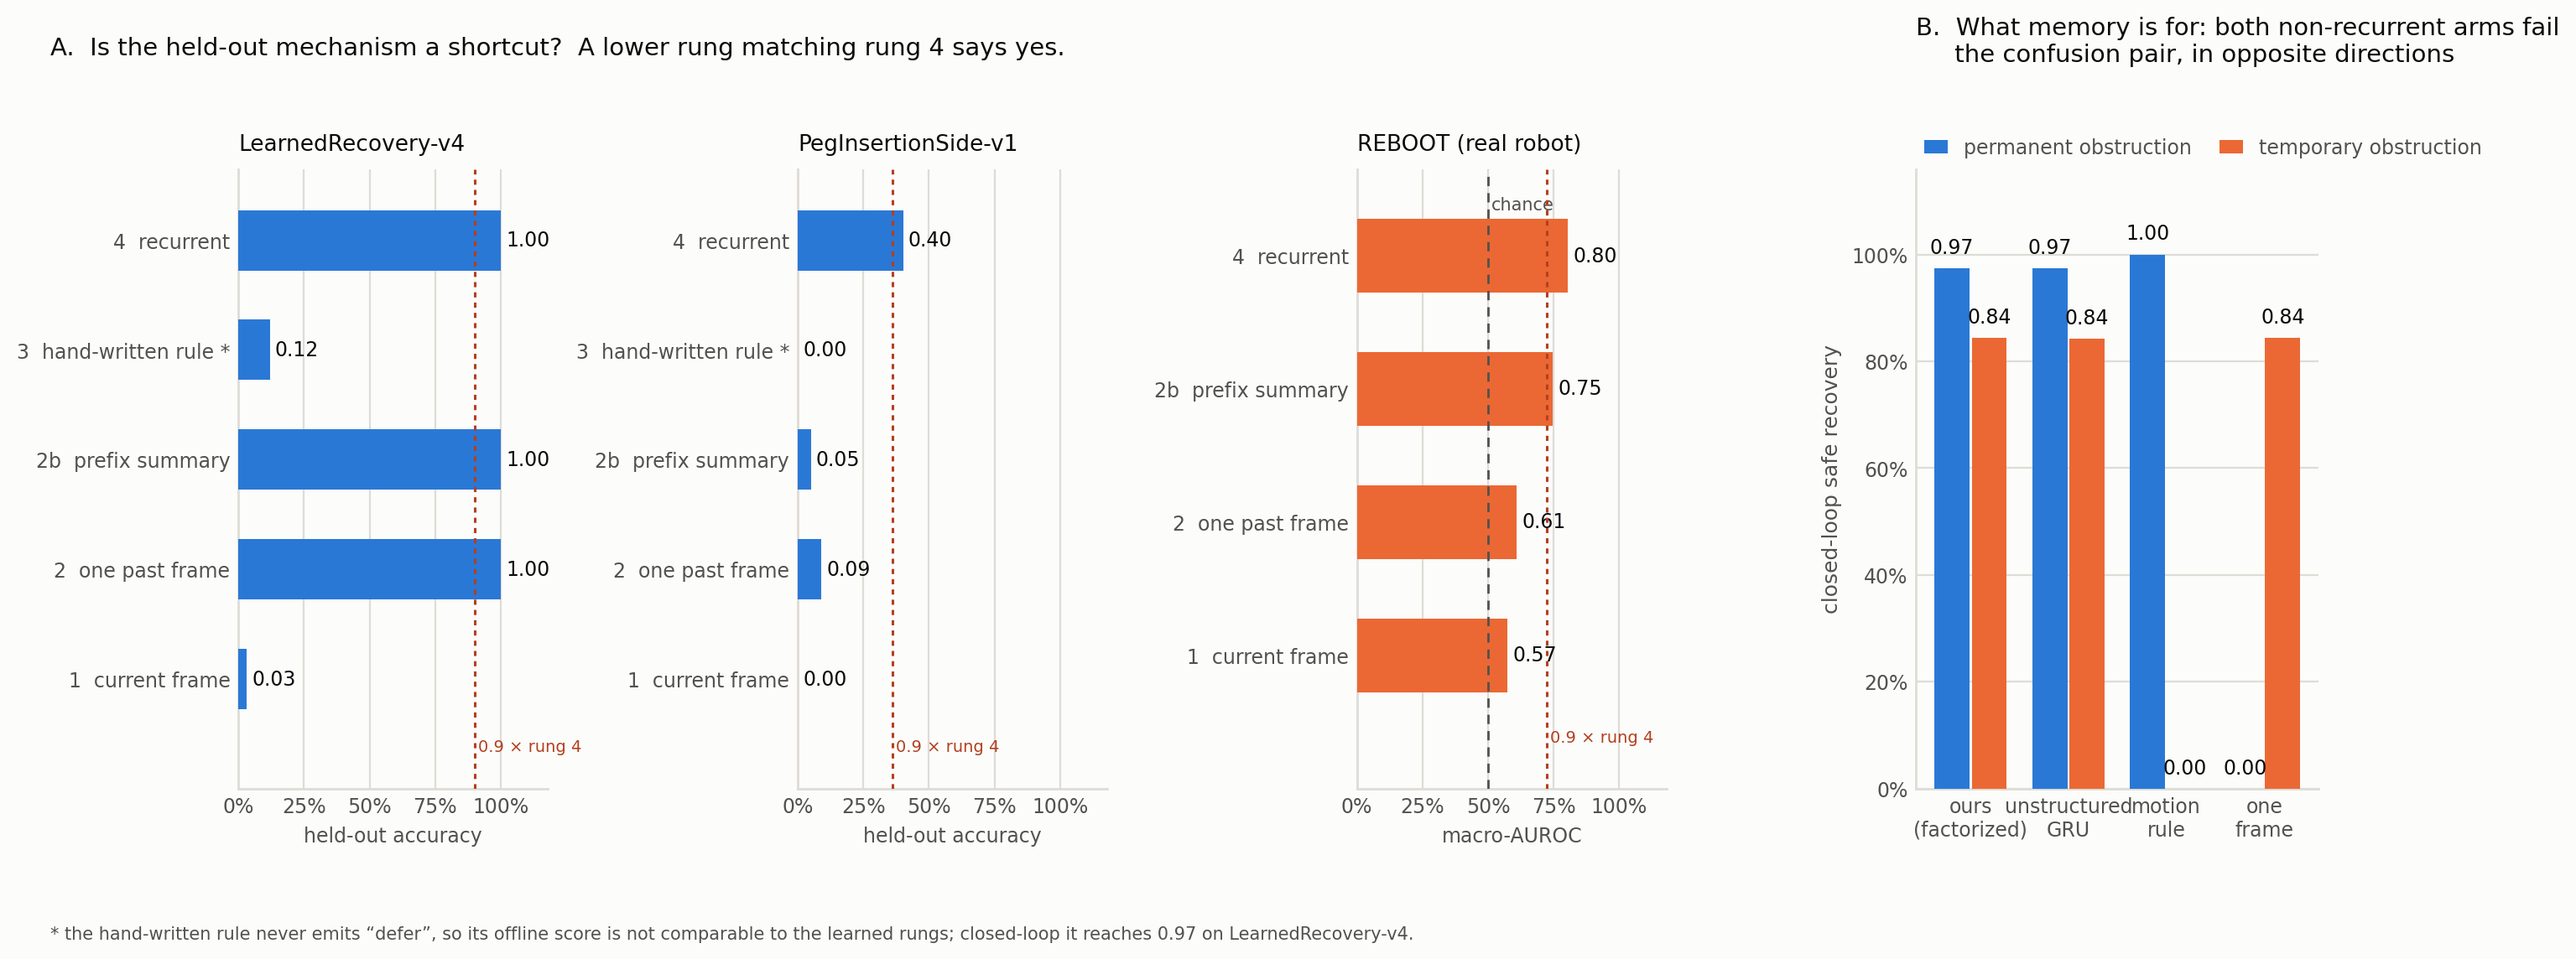
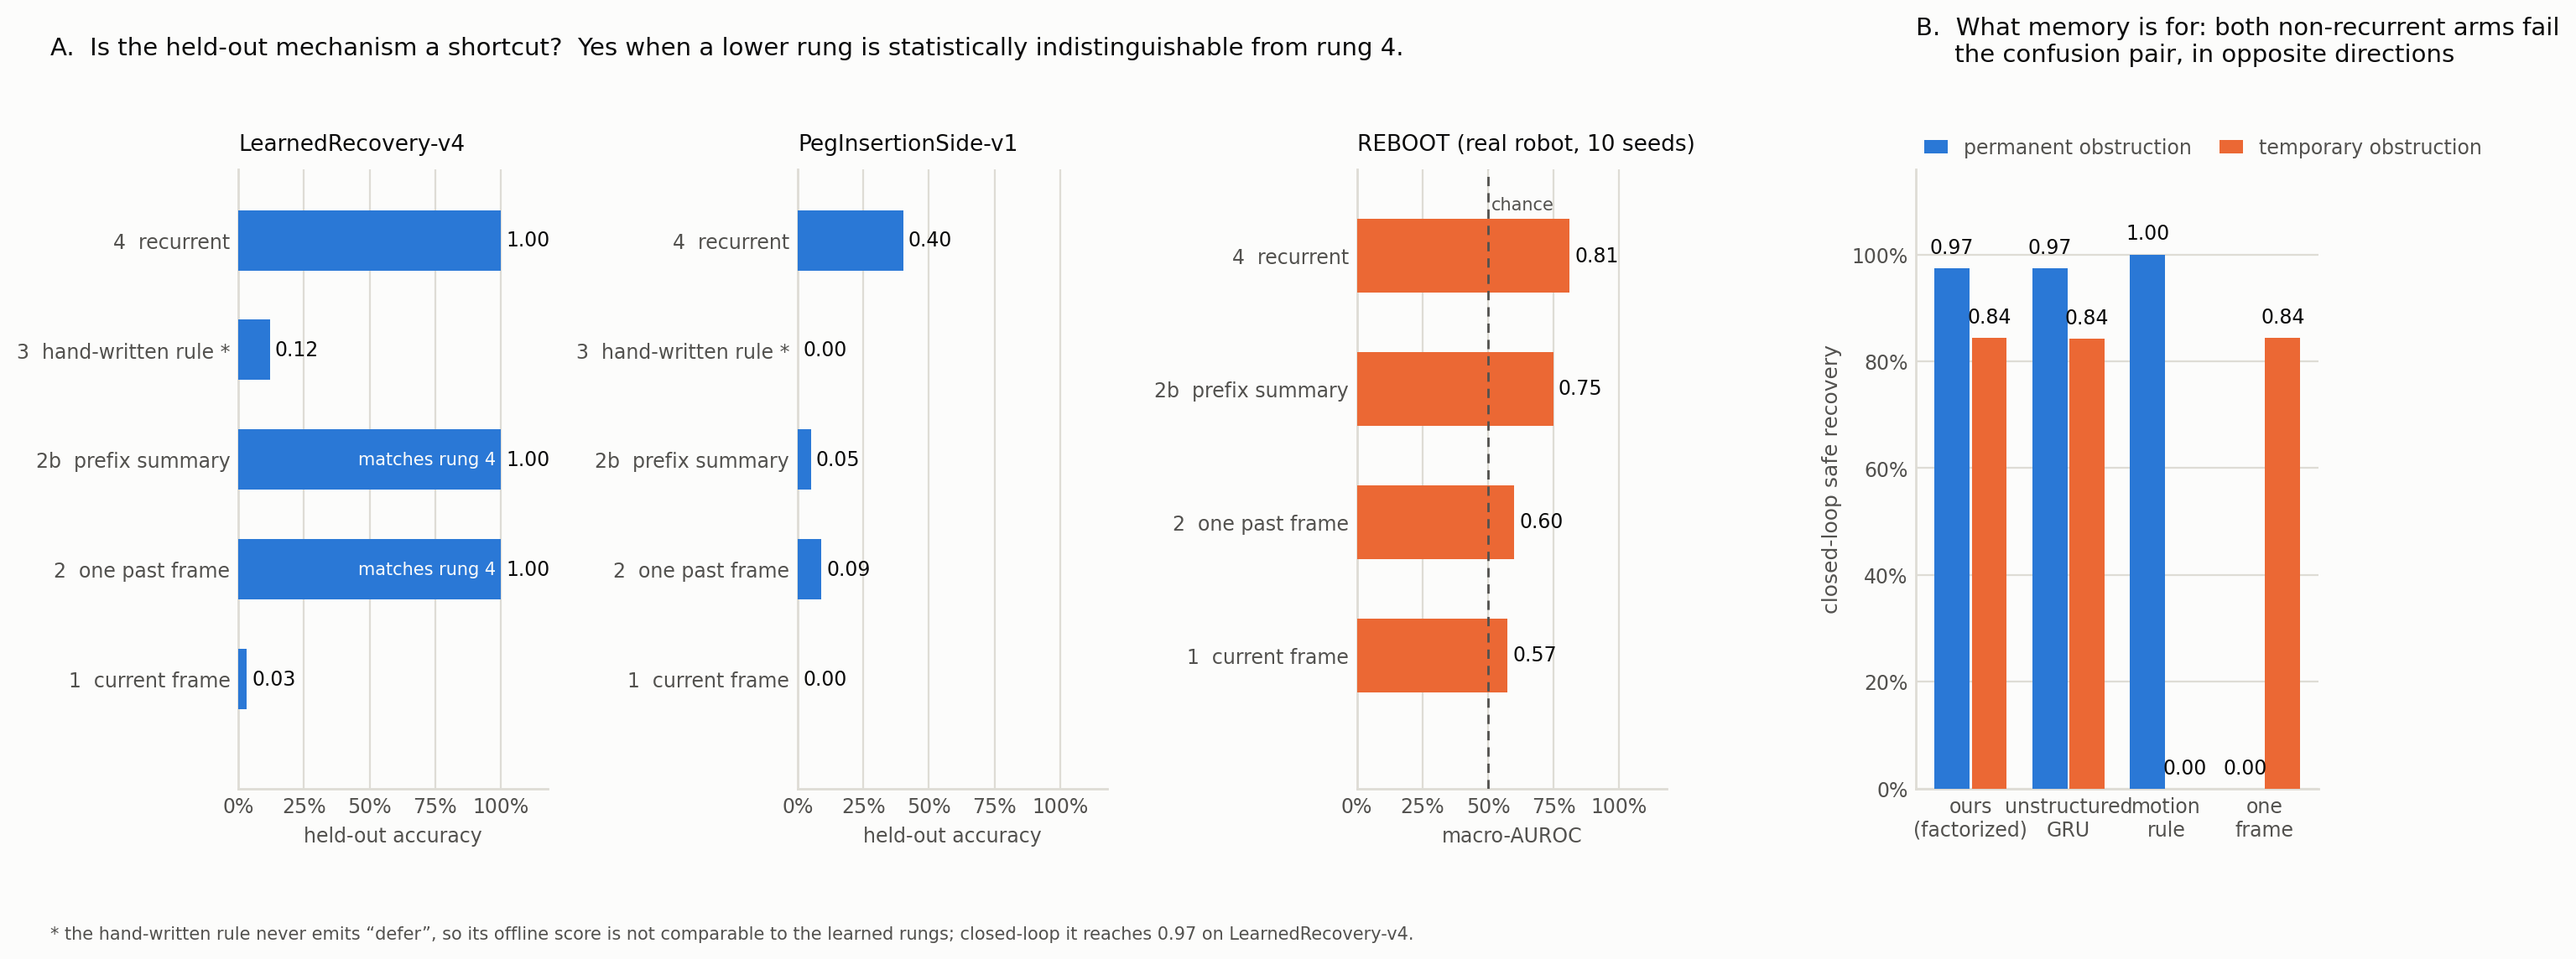
Redraw the figure against the criterion it now reports
The figure still drew the 0.9 x rung-4 line after that ratio cut had been
replaced by a paired bootstrap, so it contradicted the text: REBOOT's
order-free control crosses that line while the test finds it distinguishable
from rung 4. It also read the three-seed REBOOT aggregate.

Panels now read the ten-seed aggregate and mark only the rungs the paired test
cannot distinguish from rung 4, which on this evidence is the two non-recurrent
controls on LearnedRecovery-v4 and nothing on the other two benchmarks.

diff --git a/scripts/plot_shortcut_ladder.py b/scripts/plot_shortcut_ladder.py
@@ -39,11 +39,14 @@ RUNGS = [
 
 def load_ladder(path: Path) -> dict[str, float]:
     report = json.loads(path.read_text())
-    return {
+    values = {
         key: entry["heldout_option_accuracy_mean"]
         for key, entry in report["rungs"].items()
         if entry["heldout_option_accuracy_mean"] is not None
     }
+    # Rungs the paired test cannot distinguish from rung 4 are the verdict.
+    values["_matching"] = tuple(report.get("verdict", {}).get("matching_lower_rungs", ()))
+    return values
 
 
 def panel_a(axes, v4, peg, reboot):
@@ -56,27 +59,26 @@ def panel_a(axes, v4, peg, reboot):
     panels = [
         ("LearnedRecovery-v4", v4, "held-out accuracy", None, SERIES_1),
         ("PegInsertionSide-v1", peg, "held-out accuracy", None, SERIES_1),
-        ("REBOOT (real robot)", reboot, "macro-AUROC", 0.5, SERIES_2),
+        ("REBOOT (real robot, 10 seeds)", reboot, "macro-AUROC", 0.5, SERIES_2),
     ]
     for ax, (title, values, xlabel, chance, colour) in zip(axes, panels):
-        rows = [(lab, values.get(key)) for key, lab in RUNGS if key in values]
+        matching = values.get("_matching", ())
+        rows = [(key, lab, values.get(key)) for key, lab in RUNGS if key in values]
+        rows = [(k, l, v) for k, l, v in rows if v is not None]
         y = range(len(rows))
-        ax.barh(list(y), [v for _, v in rows], height=0.55, color=colour, zorder=3)
-        for i, (_, v) in enumerate(rows):
+        ax.barh(list(y), [v for _, _, v in rows], height=0.55, color=colour, zorder=3)
+        for i, (key, _, v) in enumerate(rows):
             ax.text(v + 0.02, i, f"{v:.2f}", va="center", ha="left",
                     fontsize=8.5, color=INK)
-        top = values.get("recurrent_factorized")
-        if top:
-            line = 0.9 * top
-            ax.axvline(line, color="#b3401f", lw=1.1, ls=(0, (2, 2)), zorder=4)
-            ax.text(line + 0.012, -0.62, "0.9 \u00d7 rung 4", fontsize=7,
-                    color="#b3401f", va="center", ha="left")
+            if key in matching:
+                ax.text(v - 0.02, i, "matches rung 4", va="center", ha="right",
+                        fontsize=7.5, color=SURFACE, zorder=5)
         if chance is not None:
             ax.axvline(chance, color=INK_MUTED, lw=1.0, ls=(0, (4, 3)), zorder=4)
             ax.text(chance + 0.012, len(rows) - 0.62, "chance", fontsize=7.5,
                     color=INK_MUTED, va="center", ha="left")
         ax.set_yticks(list(y))
-        ax.set_yticklabels([lab for lab, _ in rows], fontsize=8.5, color=INK)
+        ax.set_yticklabels([lab for _, lab, _ in rows], fontsize=8.5, color=INK)
         ax.set_ylim(-1.0, len(rows) - 0.35)
         ax.set_xlim(0, 1.18)
         ax.xaxis.set_major_formatter(PercentFormatter(xmax=1))
@@ -155,7 +157,7 @@ def main() -> None:
          cell("static_offset", "temporary_block")),
     ]
 
-    reboot_path = args.ladder_dir.parent.parent / "a_plus_audit" / "reboot_ladder_v4_aggregate.json"
+    reboot_path = args.ladder_dir.parent.parent / "a_plus_audit" / "reboot_ladder_v5_aggregate.json"
     reboot = {}
     if reboot_path.exists():
         agg = json.loads(reboot_path.read_text())["aggregate"]
@@ -165,6 +167,16 @@ def main() -> None:
             "moment_summary": agg["moment_mlp"]["macro_auroc_mean"],
             "recurrent_factorized": agg["causal_dynamics_gru"]["macro_auroc_mean"],
         }
+        comparisons = json.loads(reboot_path.read_text()).get("comparisons", {})
+        name_by_key = {
+            "instantaneous": "causal_vs_static_mlp",
+            "one_past_frame": "causal_vs_endpoint_pair_mlp",
+            "moment_summary": "causal_vs_moment_mlp",
+        }
+        reboot["_matching"] = tuple(
+            key for key, comparison in name_by_key.items()
+            if comparisons.get(comparison, {}).get("indistinguishable_from_recurrent")
+        )
 
     fig = plt.figure(figsize=(16.0, 4.8), facecolor=SURFACE)
     grid = fig.add_gridspec(1, 4, width_ratios=[1, 1, 1, 1.3], wspace=0.75)
@@ -181,7 +193,8 @@ def main() -> None:
         handlelength=1.2, ncol=2, columnspacing=1.4,
     )
     fig.suptitle(
-        "A.  Is the held-out mechanism a shortcut?  A lower rung matching rung 4 says yes.",
+        "A.  Is the held-out mechanism a shortcut?  Yes when a lower rung is "
+        "statistically indistinguishable from rung 4.",
         fontsize=10.5, color=INK, x=0.055, ha="left", y=1.045,
     )
     fig.text(
